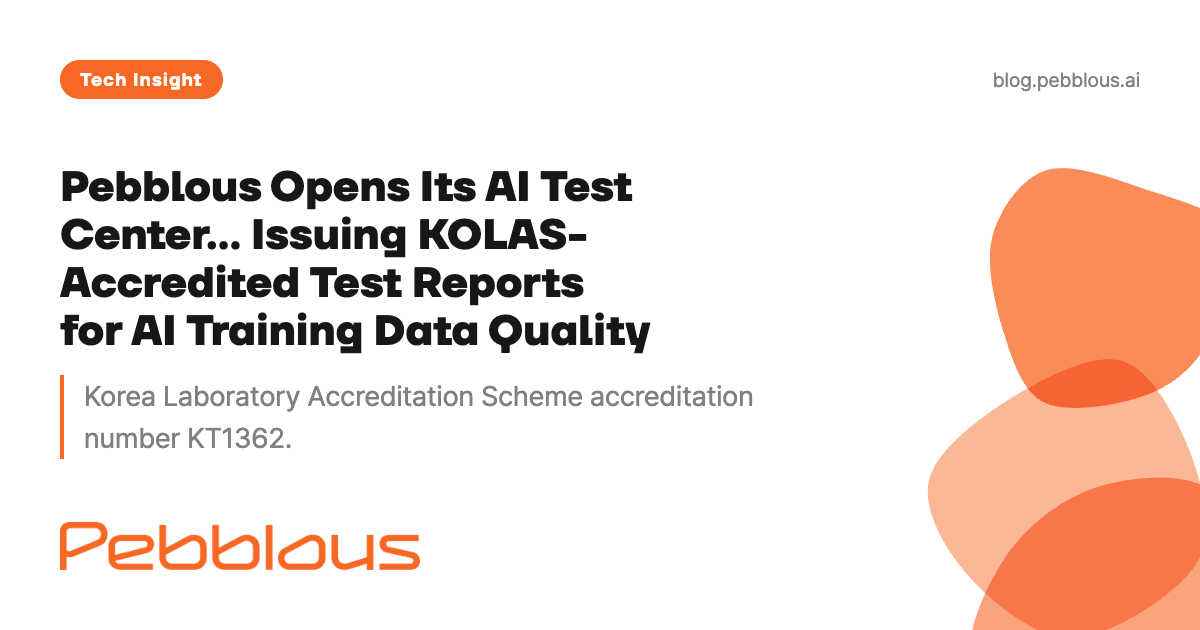
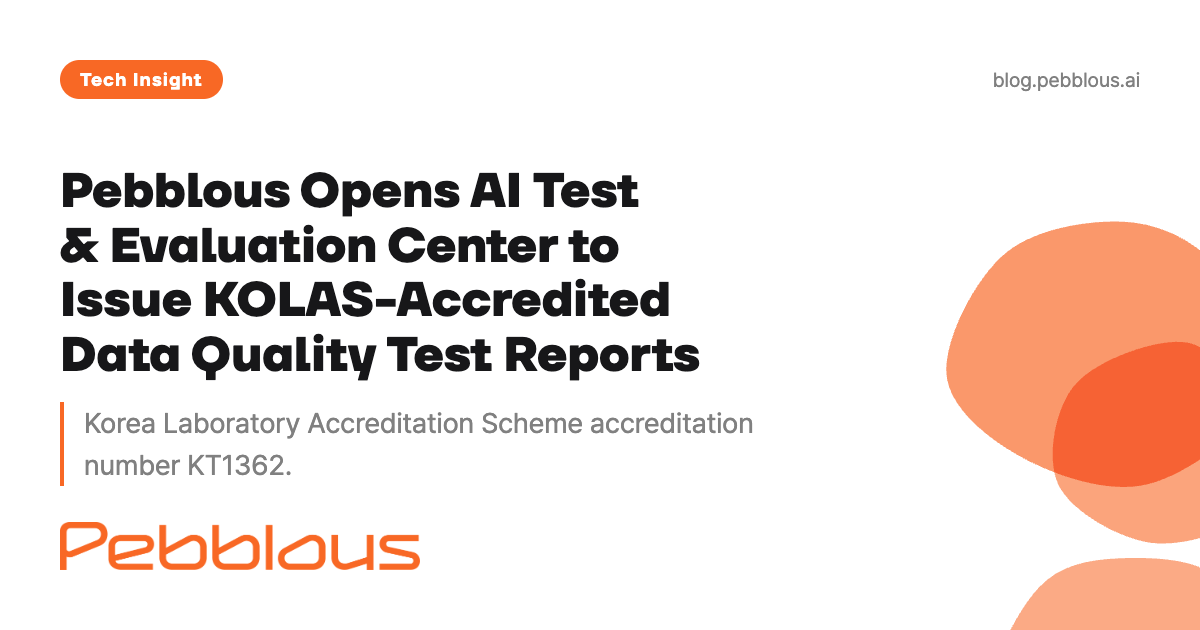
fix(blog): 영문판 센터 명칭을 AI Test & Evaluation Center 로 통일
센터 페이지의 공식 영문 명칭에 맞추고 제목·설명·공유 이미지를 함께 고친다.

Changed region(s): [[0.0308, 0.2714, 0.6475, 0.754], [0.7708, 0.2413, 1.0, 1.0]]

diff --git a/blog/pebblous-ai-test-center-kolas/en/index.html b/blog/pebblous-ai-test-center-kolas/en/index.html
@@ -4,19 +4,19 @@
 <head>
     <meta charset="UTF-8">
     <meta name="viewport" content="width=device-width, initial-scale=1.0">
-    <title>AI Test Center: Two KOLAS Test Report Types | Pebblous</title>
+    <title>AI Test &amp; Evaluation Center: Two KOLAS Test Report Types | Pebblous</title>
     <meta name="author" content="Pebblous Data Communication Team">
     <meta name="language" content="English">
     <meta http-equiv="content-language" content="en">
     <meta name="copyright" content="© 2026 Pebblous. All rights reserved.">
     <meta name="robots" content="index, follow">
 
-    <meta name="description" content="Pebblous opened an AI Test Center accredited by KOLAS (KT1362) under ISO/IEC 5259-2 and 25024. What each of its two test reports is for, and how to apply.">
-    <meta name="keywords" content="Pebblous AI Test Center, KOLAS accredited testing laboratory, accredited test report, general test report, AI training data quality, ISO/IEC 5259-2, ISO/IEC 25024, ISO/IEC 17025, data quality testing, ILAC MRA">
+    <meta name="description" content="Pebblous, a KOLAS-accredited testing laboratory (KT1362) for ISO/IEC 5259-2 and 25024, opens its AI Test &amp; Evaluation Center. What each of the two test reports is for, and how to apply.">
+    <meta name="keywords" content="Pebblous AI Test &amp; Evaluation Center, KOLAS accredited testing laboratory, accredited test report, general test report, AI training data quality, ISO/IEC 5259-2, ISO/IEC 25024, ISO/IEC 17025, data quality testing, ILAC MRA">
 
     <!-- Main search keyword -->
-    <meta name="pb-search-keyword" content="Pebblous AI Test Center">
-    <meta name="pb-search-keyword-forms" content="Pebblous AI Test Center|AI Test Center|Pebblous AI Test and Evaluation Center">
+    <meta name="pb-search-keyword" content="Pebblous AI Test &amp; Evaluation Center">
+    <meta name="pb-search-keyword-forms" content="Pebblous AI Test &amp; Evaluation Center|AI Test &amp; Evaluation Center|Pebblous AI Test and Evaluation Center">
 
     <link rel="canonical" href="https://blog.pebblous.ai/blog/pebblous-ai-test-center-kolas/en/">
     <link rel="alternate" hreflang="ko" href="https://blog.pebblous.ai/blog/pebblous-ai-test-center-kolas/ko/">
@@ -25,7 +25,7 @@
 
     <!-- Open Graph -->
     <meta property="og:type" content="article">
-    <meta property="og:title" content="Pebblous AI Test Center Issues KOLAS-Accredited Test Reports">
+    <meta property="og:title" content="Pebblous AI Test &amp; Evaluation Center Issues KOLAS-Accredited Test Reports">
     <meta property="og:description" content="Korea Laboratory Accreditation Scheme accreditation number KT1362. Data quality for AI training is tested against ISO/IEC 5259-2 and ISO/IEC 25024, and models and software are tested against criteria the applying organization sets.">
     <meta property="og:url" content="https://blog.pebblous.ai/blog/pebblous-ai-test-center-kolas/en/">
     <meta property="og:image" content="https://blog.pebblous.ai/blog/pebblous-ai-test-center-kolas/en/image/index.png">
@@ -38,7 +38,7 @@
 
     <!-- Twitter Card -->
     <meta name="twitter:card" content="summary_large_image">
-    <meta name="twitter:title" content="Pebblous AI Test Center Issues KOLAS-Accredited Test Reports">
+    <meta name="twitter:title" content="Pebblous AI Test &amp; Evaluation Center Issues KOLAS-Accredited Test Reports">
     <meta name="twitter:description" content="Korea Laboratory Accreditation Scheme accreditation number KT1362. Data quality for AI training is tested against ISO/IEC 5259-2 and ISO/IEC 25024, and models and software are tested against criteria the applying organization sets.">
     <meta name="twitter:image" content="https://blog.pebblous.ai/blog/pebblous-ai-test-center-kolas/en/image/index.png">
     <meta name="twitter:image:alt" content="A diagram placing the KOLAS accredited test report and the general test report side by side, with the scope that separates them">
@@ -108,17 +108,17 @@
                     <h2 class="text-3xl font-bold themeable-heading mb-8">Executive Summary</h2>
                     <div class="key-insight">
                         <p class="themeable-text leading-relaxed">
-                            Pebblous has opened an AI Test Center that tests data quality against international standards and issues a report on the result. It rests on the accreditation the Korea Laboratory Accreditation Scheme (KOLAS) granted in September 2026 as a testing laboratory, and accreditation number KT1362 is valid through September 2030. The center issues two kinds of report. The KOLAS accredited test report records the result of testing a dataset against ISO/IEC 5259-2 and ISO/IEC 25024, while the general test report is a non-accredited document recording tests of AI models and software against the items and methods the applying organization defines. Accredited testing applies only to items within the accreditation scope, so which one is needed is decided by what the receiving party asks for.
+                            Pebblous has opened an AI Test &amp; Evaluation Center that tests data quality against international standards and issues a report on the result. It rests on the accreditation the Korea Laboratory Accreditation Scheme (KOLAS) granted in September 2026 as a testing laboratory, and accreditation number KT1362 is valid through September 2030. The center issues two kinds of report. The KOLAS accredited test report records the result of testing a dataset against ISO/IEC 5259-2 and ISO/IEC 25024, while the general test report is a non-accredited document recording tests of AI models and software against the items and methods the applying organization defines. Accredited testing applies only to items within the accreditation scope, so which one is needed is decided by what the receiving party asks for.
                         </p>
                     </div>
                 </section>
 
                 <!-- Intro -->
                 <p class="themeable-text leading-relaxed mb-6">
-                    Pebblous has opened an AI Test Center and entered the business of testing the quality of AI training data and issuing test reports on the result. In September 2026, the Korea Laboratory Accreditation Scheme (KOLAS) accredited Pebblous as a testing laboratory for data quality under ISO/IEC 5259-2:2024 and ISO/IEC 25024:2015. The accreditation number is KT1362, and it is valid through September 2030.
+                    Pebblous has opened an AI Test &amp; Evaluation Center and entered the business of testing the quality of AI training data and issuing test reports on the result. In September 2026, the Korea Laboratory Accreditation Scheme (KOLAS) accredited Pebblous as a testing laboratory for data quality under ISO/IEC 5259-2:2024 and ISO/IEC 25024:2015. The accreditation number is KT1362, and it is valid through September 2030.
                 </p>
                 <p class="themeable-text leading-relaxed mb-12">
-                    The center issues two kinds of report. The KOLAS accredited test report records the result of testing data quality against the two international standards above. The general test report records the result of testing AI models and software against the items and methods the applying organization defines; it is a non-accredited report and sits outside the KOLAS accreditation scope. Consultations and applications are handled at the <a href="https://pebblous.ai/ai-test-center" target="_blank" rel="noopener" class="underline">Pebblous AI Test Center</a>.
+                    The center issues two kinds of report. The KOLAS accredited test report records the result of testing data quality against the two international standards above. The general test report records the result of testing AI models and software against the items and methods the applying organization defines; it is a non-accredited report and sits outside the KOLAS accreditation scope. Consultations and applications are handled at the <a href="https://pebblous.ai/ai-test-center" target="_blank" rel="noopener" class="underline">Pebblous AI Test &amp; Evaluation Center</a>.
                 </p>
 
                 <!-- Section 1 -->
@@ -131,7 +131,7 @@
                         The performance of an AI model depends heavily on its training data. Yet a claim of good quality from the party that built the data rarely convinces a client or a review body. In settings such as acceptance inspection for public data construction projects, final evaluation of government research and development projects, and procurement proposals, evidence issued by a third party carries weight.
                     </p>
                     <p class="themeable-text leading-relaxed mb-6">
-                        At the announcement of the accreditation, Joo-Haeng Lee, CEO of Pebblous, said the accreditation lets the company measure data quality against international standards and show the result in a report the state recognizes. The AI Test Center is the organization that carries out that testing work.
+                        At the announcement of the accreditation, Joo-Haeng Lee, CEO of Pebblous, said the accreditation lets the company measure data quality against international standards and show the result in a report the state recognizes. The AI Test &amp; Evaluation Center is the organization that carries out that testing work.
                     </p>
                 </section>
 
@@ -161,7 +161,7 @@
                                 </tr>
                                 <tr class="border-b themeable-border">
                                     <td class="py-3 pr-4">Testing</td>
-                                    <td class="py-3 pr-4">Pebblous AI Test Center</td>
+                                    <td class="py-3 pr-4">Pebblous AI Test &amp; Evaluation Center</td>
                                     <td class="py-3 pr-4">Measures a subject against agreed standards and procedures and issues the result as a test report</td>
                                 </tr>
                                 <tr class="border-b themeable-border">
@@ -259,7 +259,7 @@
                                     <td class="py-3 pr-4">The applying organization's site or remote, as agreed</td>
                                 </tr>
                                 <tr class="border-b themeable-border">
-                                    <td class="py-3 pr-4">KOLAS accreditation mark</td>
+                                    <td class="py-3 pr-4">KOLAS accreditation shown on report</td>
                                     <td class="py-3 pr-4">Yes</td>
                                     <td class="py-3 pr-4">No</td>
                                 </tr>
@@ -307,7 +307,7 @@
                         An application form on its own is enough to open a case. A test item specification, a quantitative target document, a product manual or a test environment diagram will speed the consultation up. Cost and duration vary with the number of test items, the size of the data and the test location, so they are advised after the application has been reviewed.
                     </p>
                     <p class="themeable-text leading-relaxed mb-6">
-                        The AI Test Center is in Daejeon, and KOLAS accredited testing is performed at the Sejong test site. Testing at the applying organization's own site applies only to general test reports.
+                        The AI Test &amp; Evaluation Center is in Daejeon, and KOLAS accredited testing is performed at the Sejong test site. Testing at the applying organization's own site applies only to general test reports.
                     </p>
                 </section>
 
@@ -353,7 +353,7 @@
 
                     <h3 class="text-xl font-semibold themeable-heading mb-4">Can a general test report be used as an accredited report?</h3>
                     <p class="themeable-text leading-relaxed mb-6">
-                        It cannot. The general test report is a non-accredited report outside the KOLAS accreditation scope, and it carries no KOLAS accreditation mark.
+                        It cannot. The general test report is a non-accredited report outside the KOLAS accreditation scope, and it carries no KOLAS accreditation shown on report.
                     </p>
 
                     <h3 class="text-xl font-semibold themeable-heading mb-4">If I receive a Pebblous report, have I been certified for data quality?</h3>
@@ -379,7 +379,7 @@
                         <h2 class="text-3xl font-bold themeable-heading">Request a Consultation</h2>
                     </div>
                     <p class="themeable-text leading-relaxed mb-6">
-                        Consultations on test scope and quotations can be requested at the <a href="https://pebblous.ai/ai-test-center" target="_blank" rel="noopener" class="underline">Pebblous AI Test Center</a>. Inquiries are received at contact@pebblous.ai.
+                        Consultations on test scope and quotations can be requested at the <a href="https://pebblous.ai/ai-test-center" target="_blank" rel="noopener" class="underline">Pebblous AI Test &amp; Evaluation Center</a>. Inquiries are received at contact@pebblous.ai.
                     </p>
                 </section>
 
@@ -390,7 +390,7 @@
                         <h2 class="text-3xl font-bold themeable-heading">References</h2>
                     </div>
                     <ul class="themeable-text leading-relaxed mb-6">
-                        <li><a href="https://pebblous.ai/ai-test-center" target="_blank" rel="noopener" class="underline">Pebblous AI Test Center</a></li>
+                        <li><a href="https://pebblous.ai/ai-test-center" target="_blank" rel="noopener" class="underline">Pebblous AI Test &amp; Evaluation Center</a></li>
                         <li><a href="https://www.newswire.co.kr/newsRead.php?no=1043252" target="_blank" rel="noopener" class="underline">Pebblous accredited by KOLAS as a testing laboratory for the international standards on AI training data quality, Newswire (2026-09-23, in Korean)</a></li>
                         <li><a href="https://www.iso.org/standard/81860.html" target="_blank" rel="noopener" class="underline">ISO/IEC 5259-2:2024, Data quality measures</a></li>
                         <li><a href="https://www.iso.org/standard/35749.html" target="_blank" rel="noopener" class="underline">ISO/IEC 25024:2015, Measurement of data quality</a></li>
@@ -426,15 +426,15 @@
               },
               "recordedAt": "2026-11-18T05:07:22.383Z"
             },
-            mainTitle: "Pebblous Opens Its AI Test Center… Issuing KOLAS-Accredited Test Reports for AI Training Data Quality",
+            mainTitle: "Pebblous Opens AI Test & Evaluation Center to Issue KOLAS-Accredited Data Quality Test Reports",
             subtitle: "Accredited testing measures datasets against ISO/IEC 5259-2 and 25024; non-accredited testing measures models against the criteria the applying organization sets",
-            pageTitle: "AI Test Center: Two KOLAS Test Report Types | Pebblous",
+            pageTitle: "AI Test & Evaluation Center: Two KOLAS Test Report Types | Pebblous",
             category: "tech",
             publishDate: "2026-11-18",
             publisher: "Pebblous Data Communication Team",
             defaultTheme: "light",
             articlePath: "blog/pebblous-ai-test-center-kolas/en/",
-            tags: ["KOLAS", "accredited test report", "AI training data quality", "ISO/IEC 5259-2", "ISO/IEC 25024", "ISO/IEC 17025", "AI Test Center"]
+            tags: ["KOLAS", "accredited test report", "AI training data quality", "ISO/IEC 5259-2", "ISO/IEC 25024", "ISO/IEC 17025", "AI Test & Evaluation Center"]
         });
     </script>
 </body>

diff --git a/blog/pebblous-ai-test-center-kolas/en/index.md b/blog/pebblous-ai-test-center-kolas/en/index.md
@@ -1,5 +1,5 @@
 ---
-title: Pebblous Opens Its AI Test Center… Issuing KOLAS-Accredited Test Reports for AI Training Data Quality
+title: Pebblous Opens AI Test & Evaluation Center to Issue KOLAS-Accredited Data Quality Test Reports
 subtitle: Accredited testing measures datasets against ISO/IEC 5259-2 and 25024; non-accredited testing measures models against the criteria the applying organization sets
 date: 2026-11-18
 category: tech
@@ -7,24 +7,24 @@ source: index.html
 note: HTML-중립 본문 원고(자동 역추출). 출간 후 본문 수정은 이 파일에서.
 ---
 
-# Pebblous Opens Its AI Test Center… Issuing KOLAS-Accredited Test Reports for AI Training Data Quality
+# Pebblous Opens AI Test & Evaluation Center to Issue KOLAS-Accredited Data Quality Test Reports
 
 _Accredited testing measures datasets against ISO/IEC 5259-2 and 25024; non-accredited testing measures models against the criteria the applying organization sets_
 
 ## Executive Summary
 
 > [!callout]
-> Pebblous has opened an AI Test Center that tests data quality against international standards and issues a report on the result. It rests on the accreditation the Korea Laboratory Accreditation Scheme (KOLAS) granted in September 2026 as a testing laboratory, and accreditation number KT1362 is valid through September 2030. The center issues two kinds of report. The KOLAS accredited test report records the result of testing a dataset against ISO/IEC 5259-2 and ISO/IEC 25024, while the general test report is a non-accredited document recording tests of AI models and software against the items and methods the applying organization defines. Accredited testing applies only to items within the accreditation scope, so which one is needed is decided by what the receiving party asks for.
+> Pebblous has opened an AI Test & Evaluation Center that tests data quality against international standards and issues a report on the result. It rests on the accreditation the Korea Laboratory Accreditation Scheme (KOLAS) granted in September 2026 as a testing laboratory, and accreditation number KT1362 is valid through September 2030. The center issues two kinds of report. The KOLAS accredited test report records the result of testing a dataset against ISO/IEC 5259-2 and ISO/IEC 25024, while the general test report is a non-accredited document recording tests of AI models and software against the items and methods the applying organization defines. Accredited testing applies only to items within the accreditation scope, so which one is needed is decided by what the receiving party asks for.
 
-Pebblous has opened an AI Test Center and entered the business of testing the quality of AI training data and issuing test reports on the result. In September 2026, the Korea Laboratory Accreditation Scheme (KOLAS) accredited Pebblous as a testing laboratory for data quality under ISO/IEC 5259-2:2024 and ISO/IEC 25024:2015. The accreditation number is KT1362, and it is valid through September 2030.
+Pebblous has opened an AI Test & Evaluation Center and entered the business of testing the quality of AI training data and issuing test reports on the result. In September 2026, the Korea Laboratory Accreditation Scheme (KOLAS) accredited Pebblous as a testing laboratory for data quality under ISO/IEC 5259-2:2024 and ISO/IEC 25024:2015. The accreditation number is KT1362, and it is valid through September 2030.
 
-The center issues two kinds of report. The KOLAS accredited test report records the result of testing data quality against the two international standards above. The general test report records the result of testing AI models and software against the items and methods the applying organization defines; it is a non-accredited report and sits outside the KOLAS accreditation scope. Consultations and applications are handled at the [Pebblous AI Test Center](https://pebblous.ai/ai-test-center).
+The center issues two kinds of report. The KOLAS accredited test report records the result of testing data quality against the two international standards above. The general test report records the result of testing AI models and software against the items and methods the applying organization defines; it is a non-accredited report and sits outside the KOLAS accreditation scope. Consultations and applications are handled at the [Pebblous AI Test & Evaluation Center](https://pebblous.ai/ai-test-center).
 
 ## Where Data Quality Needs Third-Party Evidence
 
 The performance of an AI model depends heavily on its training data. Yet a claim of good quality from the party that built the data rarely convinces a client or a review body. In settings such as acceptance inspection for public data construction projects, final evaluation of government research and development projects, and procurement proposals, evidence issued by a third party carries weight.
 
-At the announcement of the accreditation, Joo-Haeng Lee, CEO of Pebblous, said the accreditation lets the company measure data quality against international standards and show the result in a report the state recognizes. The AI Test Center is the organization that carries out that testing work.
+At the announcement of the accreditation, Joo-Haeng Lee, CEO of Pebblous, said the accreditation lets the company measure data quality against international standards and show the result in a report the state recognizes. The AI Test & Evaluation Center is the organization that carries out that testing work.
 
 ## Accreditation, Testing and Certification Are Different Words
 
@@ -33,7 +33,7 @@ Before choosing a report, three words need to be told apart.
 | Term | Who does it | What it means |
 | --- | --- | --- |
 | Accreditation | KOLAS | Assesses whether a testing laboratory meets the ISO/IEC 17025 requirements and is competent to perform tests within a defined scope, and grants formal recognition |
-| Testing | Pebblous AI Test Center | Measures a subject against agreed standards and procedures and issues the result as a test report |
+| Testing | Pebblous AI Test & Evaluation Center | Measures a subject against agreed standards and procedures and issues the result as a test report |
 | Certification | A separate certification body | Judges whether a product, a service or a system meets a set of criteria and grants a certificate |
 
 KOLAS accreditation is a scheme that formally recognizes the competence of a testing laboratory. It does not mean KOLAS guarantees the quality of a particular product or dataset. The document Pebblous issues is likewise not a certificate but a test report, and it records the result of measuring the subject it was asked to test.
@@ -60,7 +60,7 @@ The [24 quality characteristics and measures](/project/ISO5259/5259-2-cheetsheet
 | Test subject | Structured and unstructured datasets for AI training | AI models and software, data processing systems |
 | Main measures | Data quality such as completeness, accuracy and consistency | Function and performance such as accuracy, processing speed and reproducibility |
 | Test location | Pebblous Sejong test site | The applying organization's site or remote, as agreed |
-| KOLAS accreditation mark | Yes | No |
+| KOLAS accreditation shown on report | Yes | No |
 | Typical use | Delivery for public data construction projects, official external submission | Evidence for quantitative project targets, internal verification |
 
 What decides the choice is what the receiving party asks for. If the receiving party requires a report from an accredited testing laboratory, the KOLAS accredited test report is the one needed. Accredited testing, however, applies only to items within the accreditation scope. Items outside it, such as model performance or response time, are handled as general testing and issued as a separate report. If a project agreement requires an accredited report for every metric, check with the managing agency first whether a general test report may be submitted.
@@ -82,7 +82,7 @@ What decides the choice is what the receiving party asks for. If the receiving p
 
 An application form on its own is enough to open a case. A test item specification, a quantitative target document, a product manual or a test environment diagram will speed the consultation up. Cost and duration vary with the number of test items, the size of the data and the test location, so they are advised after the application has been reviewed.
 
-The AI Test Center is in Daejeon, and KOLAS accredited testing is performed at the Sejong test site. Testing at the applying organization's own site applies only to general test reports.
+The AI Test & Evaluation Center is in Daejeon, and KOLAS accredited testing is performed at the Sejong test site. Testing at the applying organization's own site applies only to general test reports.
 
 ## Testing Runs Separately From the Solution
 
@@ -104,7 +104,7 @@ If the receiving party requires an accredited report, or if data quality has to 
 
 ### Can a general test report be used as an accredited report?
 
-It cannot. The general test report is a non-accredited report outside the KOLAS accreditation scope, and it carries no KOLAS accreditation mark.
+It cannot. The general test report is a non-accredited report outside the KOLAS accreditation scope, and it carries no KOLAS accreditation shown on report.
 
 ### If I receive a Pebblous report, have I been certified for data quality?
 
@@ -120,11 +120,11 @@ They vary with the number of test items, the size of the data and the test locat
 
 ## Request a Consultation
 
-Consultations on test scope and quotations can be requested at the [Pebblous AI Test Center](https://pebblous.ai/ai-test-center). Inquiries are received at contact@pebblous.ai.
+Consultations on test scope and quotations can be requested at the [Pebblous AI Test & Evaluation Center](https://pebblous.ai/ai-test-center). Inquiries are received at contact@pebblous.ai.
 
 ## References
 
-- [Pebblous AI Test Center](https://pebblous.ai/ai-test-center)
+- [Pebblous AI Test & Evaluation Center](https://pebblous.ai/ai-test-center)
 - [Pebblous accredited by KOLAS as a testing laboratory for the international standards on AI training data quality, Newswire (2026-09-23, in Korean)](https://www.newswire.co.kr/newsRead.php?no=1043252)
 - [ISO/IEC 5259-2:2024, Data quality measures](https://www.iso.org/standard/81860.html)
 - [ISO/IEC 25024:2015, Measurement of data quality](https://www.iso.org/standard/35749.html)

diff --git a/blog/pebblous-ai-test-center-kolas/sns/index.md b/blog/pebblous-ai-test-center-kolas/sns/index.md
@@ -34,7 +34,7 @@
 
 What Korea accredited is the ability to run the test, not the data that goes into it.
 
-Pebblous has opened an AI Test Center. In September 2026 the Korea Laboratory Accreditation Scheme recognised the company as an accredited testing laboratory for data quality. The accreditation number is KT1362 and it runs to September 2030.
+Pebblous has opened an AI Test & Evaluation Center. In September 2026 the Korea Laboratory Accreditation Scheme recognised the company as an accredited testing laboratory for data quality. The accreditation number is KT1362 and it runs to September 2030.
 
 Two international standards define the scope. ISO/IEC 5259-2 covers data used in analytics and machine learning; ISO/IEC 25024 covers structured data.
 
@@ -66,7 +66,7 @@ https://blog.pebblous.ai/blog/pebblous-ai-test-center-kolas/ko/
 
 ## Twitter/X (EN)
 
-Korea accredited the laboratory, not the dataset. The Pebblous AI Test Center now issues KOLAS-accredited reports on dataset quality.
+Korea accredited the laboratory, not the dataset. The Pebblous AI Test & Evaluation Center now issues KOLAS-accredited reports on dataset quality.
 
 ISO/IEC 5259-2 describes how quality is measured. It stops before saying what passes. That line gets drawn when you apply.
 
@@ -110,7 +110,7 @@ Accreditation and certification. Two words, and only one of them arrived.
 
 What the Korea Laboratory Accreditation Scheme attested in September 2026 is that Pebblous is able to run the test. Not that any particular dataset is good.
 
-So the document the AI Test Center hands over is a test report, not a certificate.
+So the document the AI Test & Evaluation Center hands over is a test report, not a certificate.
 
 It records what was measured, by a method settled beforehand, and the value that came out.
 
